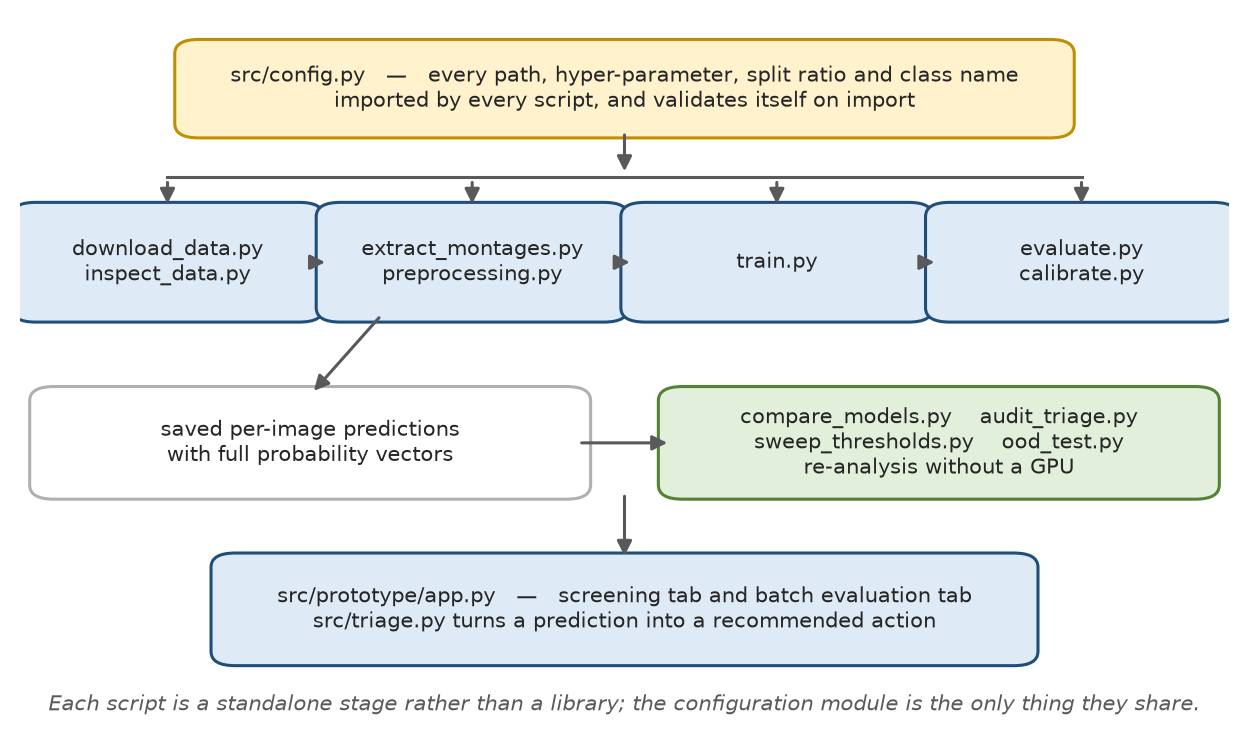
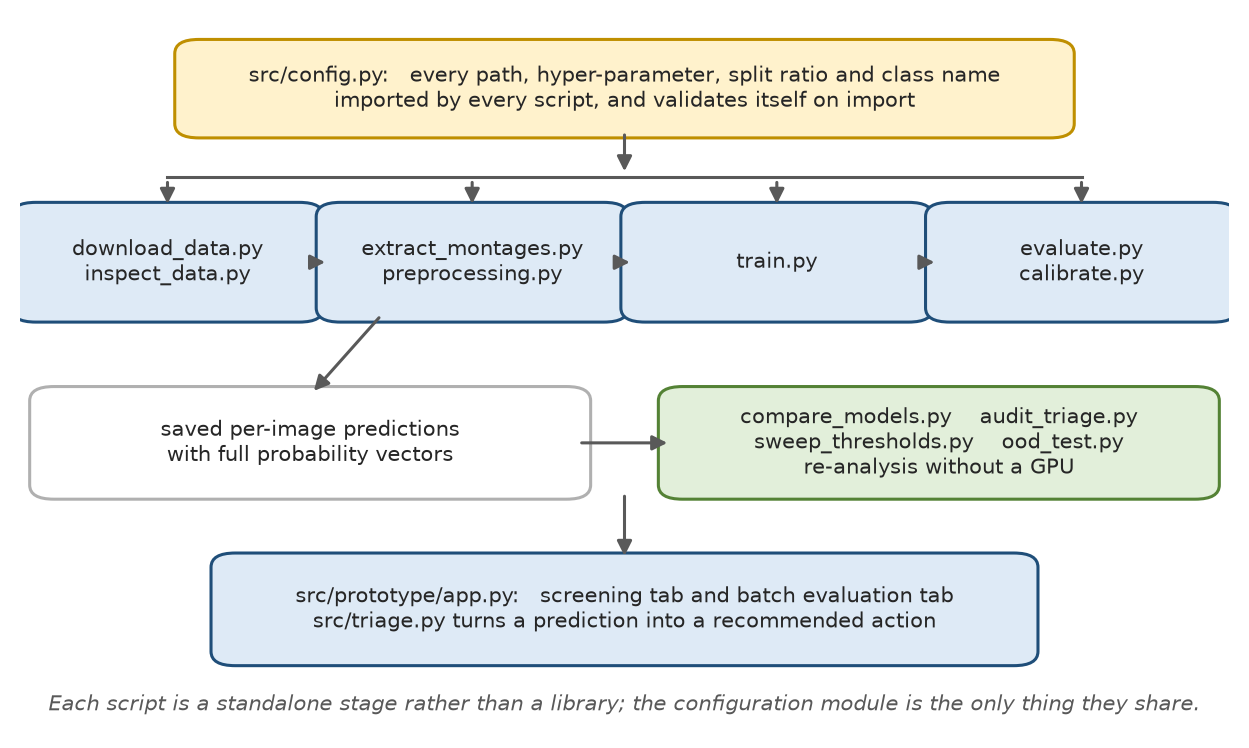
Remove every em dash from the dissertation and from figure labels
The author asked for no em dashes in the submitted document. There were seven,
none of them in prose: two row labels in Table 3.5 and the five appendix
headings, all now reading with a colon. The generated figures carried more,
inside the images rather than the text layer, so make_figures.py was changed and
the six figures regenerated.

The same substitution is applied to the figure titles in evaluate.py,
calibrate.py, ablate_border.py and sweep_thresholds.py, so that a figure
regenerated in Colab matches the document. Console output is left alone, being
no part of the dissertation.

En dashes in number and date ranges are kept. They are correct typography in
Cite Them Right Harvard, Word produces them automatically, and replacing them
would make the reference list less correct rather than more natural.

Claude-Session: https://claude.ai/code/session_01VFdjtgQdmb7B71DqrroXPN

Changed region(s): [[0.2186, 0.7687, 0.7806, 0.8302], [0.1873, 0.0922, 0.8118, 0.123]]

diff --git a/docs/dissertation_build/appendicess.js b/docs/dissertation_build/appendicess.js
@@ -2,32 +2,32 @@ const { P, H2, cap, T, BREAK } = require('./lib');
 const c = [];
 
 c.push(BREAK());
-c.push(H2('Appendix A  —  Validation sweep of the escalation threshold'));
+c.push(H2('Appendix A: Validation sweep of the escalation threshold'));
 c.push(P('The full grid behind the threshold decision in Section 5.7, measured on the 1,261 validation images, of which 200 are foot ulcers with 11 misclassified and 685 are cases requiring no urgent care. The test set was not used for this and could not be, having already been read.'));
 c.push(cap('A.1', 'Validation sweep of the urgent escalation threshold.'));
 //@TABLEDATA 5.14
 c.push(P('The cost column never approaches the 2 percent budget defined for the sweep at any value on the grid, which is why the selection rule reduced to maximising benefit. The adopted value of 0.10 is the least aggressive threshold reaching the best attainable benefit.'));
 
 c.push(BREAK());
-c.push(H2('Appendix B  —  External validation, every photograph'));
+c.push(H2('Appendix B: External validation, every photograph'));
 c.push(P('The ten photographs described in Section 5.8, scored with MobileNetV2 after temperature scaling. The final column applies the abstention threshold of 0.787 derived on validation. Subject 2’s two photographs were uploaded with their background names transposed; the table below is corrected.'));
 c.push(cap('B.1', 'Every photograph in the external validation set.'));
 //@TABLEDATA 5.16
 c.push(P('The full calibrated probability vector for each image is written alongside these columns by the prototype’s batch tab, which is what allows the paired analysis in Section 5.8.3 to be recomputed without re-running inference.'));
 
 c.push(BREAK());
-c.push(H2('Appendix C  —  Per-class recall from the border alone'));
+c.push(H2('Appendix C: Per-class recall from the border alone'));
 c.push(P('The fourth arm of the occlusion ablation in Section 5.6.3, which masks the interior and leaves only a 20-pixel frame. It measures how much class information each model can recover from the region a lesion does not occupy.'));
 c.push(cap('C.1', 'Per-class recall with the interior masked and only a 20-pixel border visible.'));
 //@TABLEDATA 5.13
 c.push(P('Neither model recovers anything on the nail class. MobileNetV2 collapses into predicting healthy for almost everything, recovering 62 of 692 non-healthy images for a margin of five points over the majority-class floor of 0.4455; ResNet50 recovers 193 for a margin of fifteen points. Degrading into the majority class rather than into a confident diagnosis is the behaviour wanted from a screening tool.'));
 
 c.push(BREAK());
-c.push(H2('Appendix D  —  Source code'));
+c.push(H2('Appendix D: Source code'));
 c.push(P('The complete implementation, including the configuration module listing every hyper-parameter, the analysis scripts, the prototype interface and the scripts that generated the figures in this dissertation, is in the project repository. The repository also contains the findings document from which every figure quoted in Chapter 5 is taken.'));
 
 c.push(BREAK());
-c.push(H2('Appendix E  —  Problems encountered during implementation'));
+c.push(H2('Appendix E: Problems encountered during implementation'));
 c.push(P('Each of these produced a wrong result that looked correct rather than an error message, which is why the fix in every case is a verification step rather than a code correction. They are recorded because a study reporting only its successes gives a reader no way to judge how carefully it was checked.'));
 c.push(cap('E.1', 'Problems encountered during implementation, their cause, and the verification added in response.'));
 c.push(T([2500, 2900, 2800], [

diff --git a/docs/dissertation_build/ch3.js b/docs/dissertation_build/ch3.js
@@ -147,8 +147,8 @@ c.push(T([3400, 4800], [
   ['Batch size', '32'],
   ['Optimiser', 'Adam'],
   ['Loss', 'Categorical cross-entropy'],
-  ['Stage 1 — epochs, learning rate', '15 at 1e-3, backbone frozen'],
-  ['Stage 2 — epochs, learning rate', 'up to 25 at 1e-5, early stopping applied'],
+  ['Stage 1: epochs, learning rate', '15 at 1e-3, backbone frozen'],
+  ['Stage 2: epochs, learning rate', 'up to 25 at 1e-5, early stopping applied'],
   ['Backbone layers unfrozen in stage 2', 'top 30 (BatchNorm excluded)'],
   ['Dropout', '0.3'],
   ['L2 regularisation', '1e-4'],

diff --git a/docs/dissertation_build/make_figures.py b/docs/dissertation_build/make_figures.py
@@ -48,7 +48,7 @@ def confusion():
         ax.set_xlabel("Predicted", fontsize=8.5)
         ax.set_ylabel("True", fontsize=8.5)
         errors = int(m.sum() - np.trace(m))
-        ax.set_title(f"{name}  —  {errors} errors of 1,248", fontsize=9.5,
+        ax.set_title(f"{name}:  {errors} errors of 1,248", fontsize=9.5,
                      color=ACCENT, fontweight="bold", pad=8)
         for s in ax.spines.values():
             s.set_visible(False)
@@ -158,15 +158,15 @@ def _arrow(ax, a, b, style="-|>"):
 def twostage():
     fig, ax = plt.subplots(figsize=(7.4, 3.5))
     ax.set_xlim(0, 1); ax.set_ylim(0, 1); ax.axis("off")
-    ax.text(0.25, 0.95, "Stage 1  —  frozen backbone", ha="center", fontsize=9.5,
+    ax.text(0.25, 0.95, "Stage 1:  frozen backbone", ha="center", fontsize=9.5,
             color=ACCENT, fontweight="bold")
-    ax.text(0.76, 0.95, "Stage 2  —  fine-tuning", ha="center", fontsize=9.5,
+    ax.text(0.76, 0.95, "Stage 2:  fine-tuning", ha="center", fontsize=9.5,
             color=ACCENT, fontweight="bold")
     ax.plot([0.505, 0.505], [0.06, 0.90], color="#D9D9D9", lw=1.2, ls=":")
     # stage 1
-    _box(ax, (0.03, 0.62), 0.44, 0.19, "ImageNet backbone  —  FROZEN\nno weights updated",
+    _box(ax, (0.03, 0.62), 0.44, 0.19, "ImageNet backbone:  FROZEN\nno weights updated",
          "#EDEDED", "#B0B0B0")
-    _box(ax, (0.03, 0.36), 0.44, 0.19, "New classification head  —  TRAINED\npooling, dropout 0.3, 4-way softmax",
+    _box(ax, (0.03, 0.36), 0.44, 0.19, "New classification head:  TRAINED\npooling, dropout 0.3, 4-way softmax",
          "#DEEAF6", ACCENT)
     _box(ax, (0.03, 0.10), 0.44, 0.17, "Learning rate 1e-3\nbest val_loss checkpointed", "white", "#B0B0B0")
     _arrow(ax, (0.25, 0.62), (0.25, 0.55))
@@ -192,7 +192,7 @@ def architecture():
     fig, ax = plt.subplots(figsize=(7.8, 4.6))
     ax.set_xlim(0, 1); ax.set_ylim(0, 1); ax.axis("off")
     _box(ax, (0.14, 0.845), 0.72, 0.115,
-         "src/config.py   \u2014   every path, hyper-parameter, split ratio and class name\n"
+         "src/config.py:   every path, hyper-parameter, split ratio and class name\n"
          "imported by every script, and validates itself on import",
          "#FFF2CC", "#BF8F00", fontsize=7.5)
     stages = [("download_data.py\ninspect_data.py", 0.005),
@@ -215,7 +215,7 @@ def architecture():
     _arrow(ax, (0.30, 0.585), (0.24, 0.47))
     _arrow(ax, (0.46, 0.4025), (0.54, 0.4025))
     _box(ax, (0.17, 0.10), 0.66, 0.135,
-         "src/prototype/app.py   \u2014   screening tab and batch evaluation tab\n"
+         "src/prototype/app.py:   screening tab and batch evaluation tab\n"
          "src/triage.py turns a prediction into a recommended action",
          "#DEEAF6", ACCENT, fontsize=7.5)
     _arrow(ax, (0.50, 0.335), (0.50, 0.235))

diff --git a/src/evaluate.py b/src/evaluate.py
@@ -301,7 +301,7 @@ def plot_confusion_matrix(matrix: list[list[int]], model_name: str, normalize: b
         xticks=range(len(names)), yticks=range(len(names)),
         xticklabels=names, yticklabels=names,
         xlabel="Predicted", ylabel="True",
-        title=f"{model_name} — test confusion matrix"
+        title=f"{model_name}: test confusion matrix"
               f"{' (row-normalised)' if normalize else ''}",
     )
     plt.setp(ax.get_xticklabels(), rotation=30, ha="right", rotation_mode="anchor")
@@ -359,7 +359,7 @@ def plot_comparison(summaries: dict[str, dict]) -> Path | None:
         ax.set(title=f"{title} ({unit})")
         ax.margins(y=0.18)
 
-    fig.suptitle("MobileNetV2 vs ResNet50 — accuracy against deployment cost", fontsize=12)
+    fig.suptitle("MobileNetV2 vs ResNet50: accuracy against deployment cost", fontsize=12)
     fig.tight_layout()
     out = config.FIGURES_DIR / "model_comparison.png"
     fig.savefig(out, dpi=200)
@@ -471,7 +471,7 @@ def plot_gradcam_grid(
         ax.axis("off")
 
     fig.suptitle(
-        f"{model_name} — Grad-CAM on test predictions\n"
+        f"{model_name}: Grad-CAM on test predictions\n"
         f"red/yellow marks the region that drove the prediction",
         fontsize=11,
     )

diff --git a/src/calibrate.py b/src/calibrate.py
@@ -211,7 +211,7 @@ def plot_calibration(model_name: str, before: list[dict], after: list[dict],
             xs, ys = zip(*points)
             ax.plot(xs, ys, "o-", color=colour, ms=5, label=label)
     ax.set(xlabel="Mean predicted confidence", ylabel="Observed accuracy",
-           title=f"{model_name} — reliability diagram (validation)",
+           title=f"{model_name}: reliability diagram (validation)",
            xlim=(0, 1.02), ylim=(0, 1.02))
     ax.legend(loc="lower right", fontsize=9)
     ax.grid(alpha=0.3)
@@ -225,7 +225,7 @@ def plot_calibration(model_name: str, before: list[dict], after: list[dict],
             label=(f"threshold {chosen['threshold']:.3f}\n"
                    f"coverage {chosen['coverage']:.1%}, acc {chosen['accuracy']:.4f}"))
     ax.set(xlabel="Coverage (fraction of cases answered)", ylabel="Accuracy on answered cases",
-           title=f"{model_name} — risk-coverage trade-off (validation)")
+           title=f"{model_name}: risk-coverage trade-off (validation)")
     ax.legend(loc="lower left", fontsize=9)
     ax.grid(alpha=0.3)
 

diff --git a/src/sweep_thresholds.py b/src/sweep_thresholds.py
@@ -177,7 +177,7 @@ def main() -> int:
         low, high = wilson_interval(
             int(round(chosen_urgent["missed_ulcer_urgency"] * missed_ulcer.sum())),
             int(missed_ulcer.sum()))
-        label = ("no preference — curve flat" if urgent_flat
+        label = ("no preference, curve flat" if urgent_flat
                  else "knee of the curve: best benefit, least aggressive")
         print(f"  -> {label}: {chosen_urgent['threshold']:.2f}")
         print(f"     misclassified ulcers reaching urgent: "
@@ -223,7 +223,7 @@ def main() -> int:
     if chosen_review is None:
         print("  NO candidate meets the budget.")
     else:
-        label = ("no preference — curve flat" if review_flat
+        label = ("no preference, curve flat" if review_flat
                  else "knee of the curve: best benefit, least aggressive")
         print(f"  -> {label}: {chosen_review['threshold']:.2f}")
         print(f"     serious referred: {chosen_review['referral_recall']:.1%}")

diff --git a/src/ablate_border.py b/src/ablate_border.py
@@ -211,7 +211,7 @@ def plot_examples(images: np.ndarray, width: int, model_name: str) -> Path:
         ax.imshow(arr.astype(np.uint8))
         ax.set_title(title, fontsize=10)
         ax.axis("off")
-    fig.suptitle(f"{model_name} — border ablation inputs", fontsize=11)
+    fig.suptitle(f"{model_name}: border ablation inputs", fontsize=11)
     fig.tight_layout()
     out = config.FIGURES_DIR / f"{model_name}_ablation_examples.png"
     out.parent.mkdir(parents=True, exist_ok=True)
